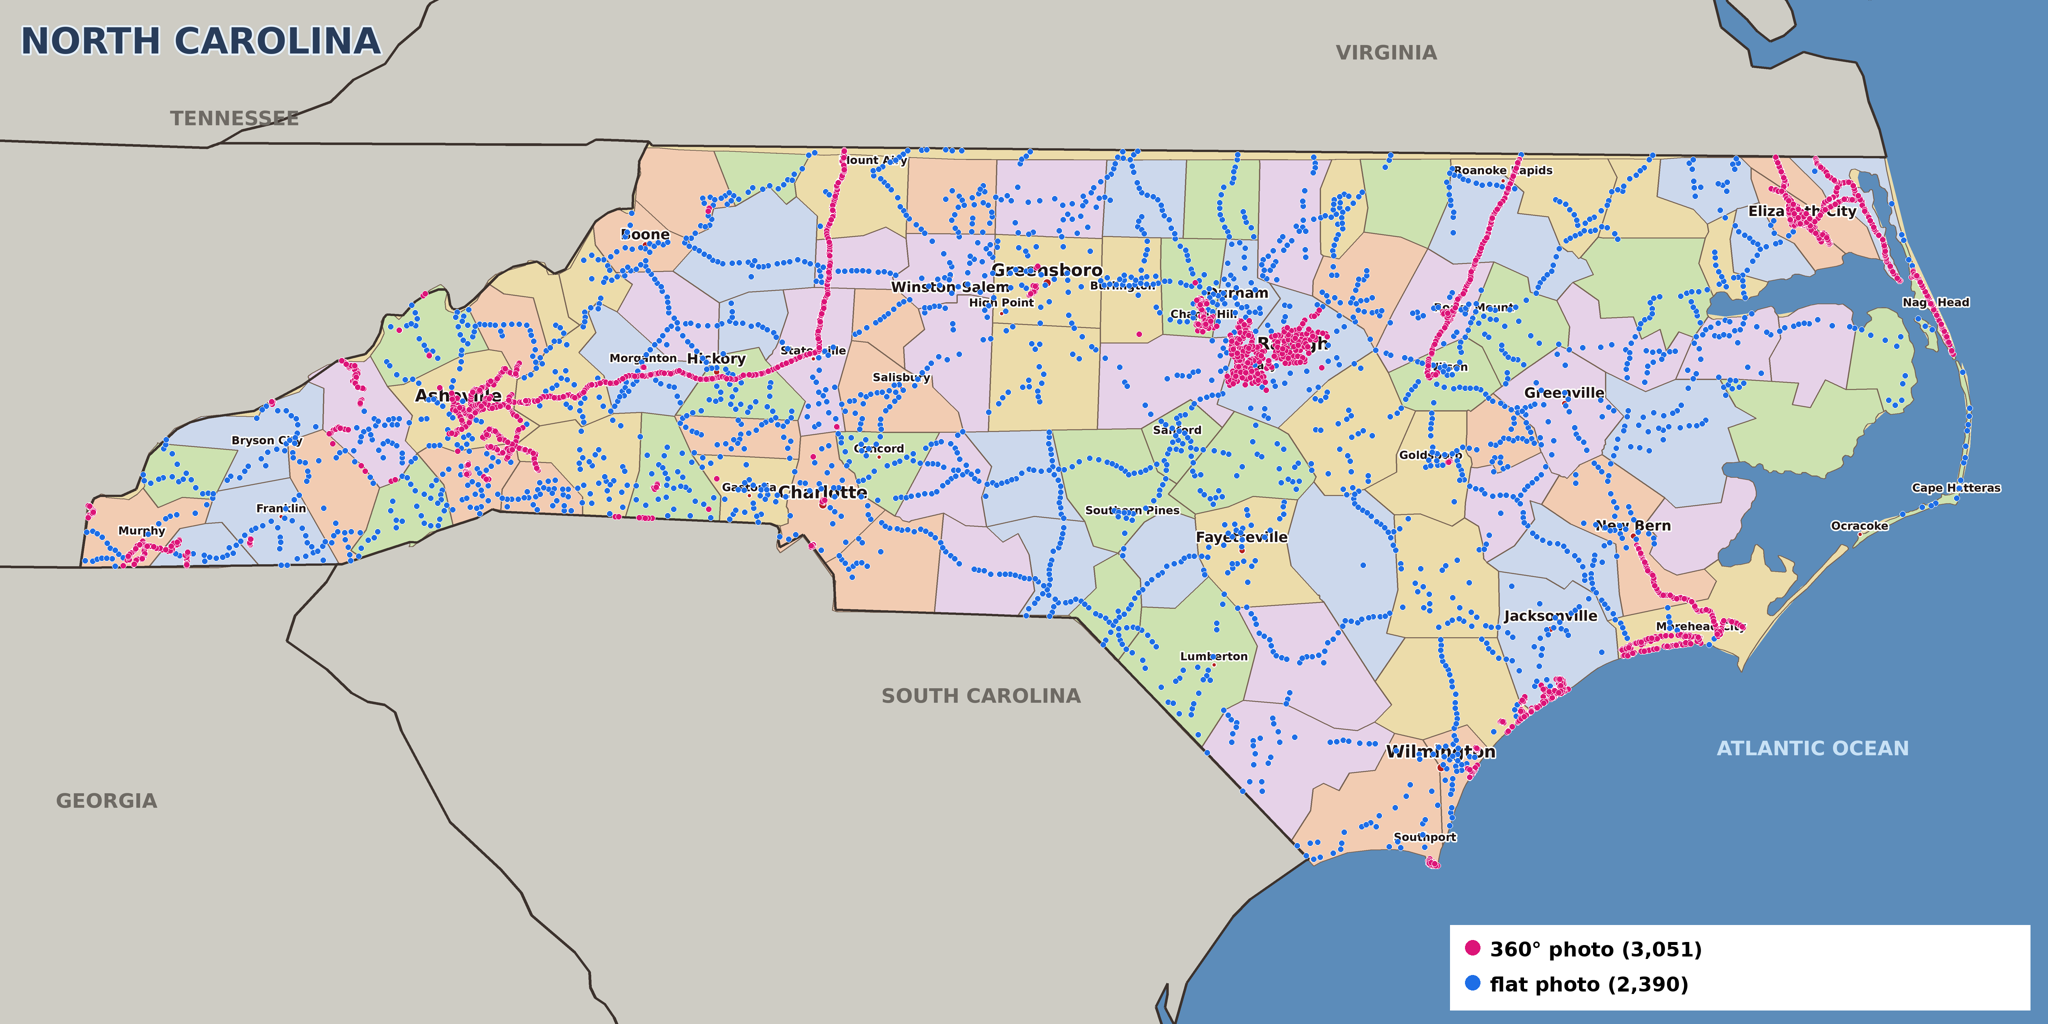
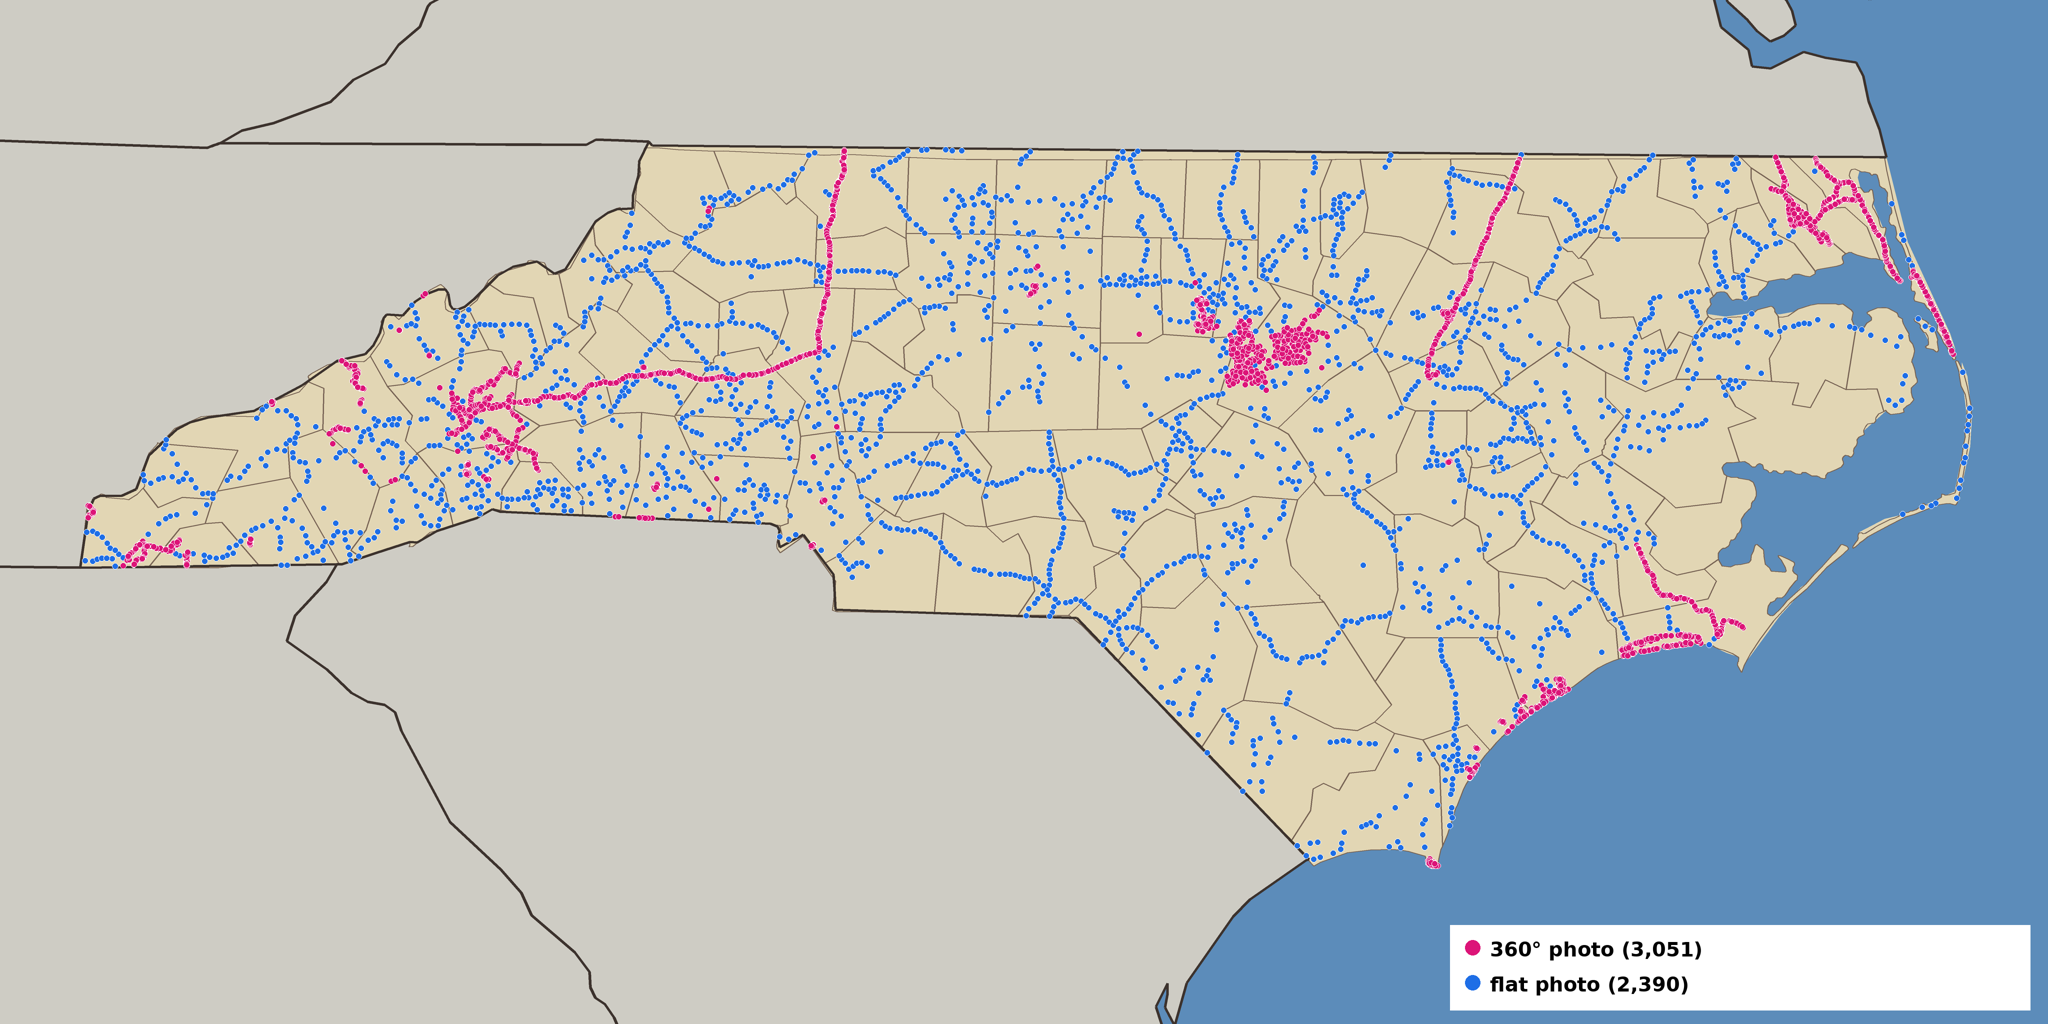
GeoQuest NC: bare map, county outlines only
Claude-Session: https://claude.ai/code/session_011TBG6x6c87uEmbv3kpaQXq

diff --git a/vrchat-geoquest/tools/make_nc_map.py b/vrchat-geoquest/tools/make_nc_map.py
@@ -31,6 +31,10 @@ def P(c):
 
 import sys
 NEIGHBORS = "--neighbor-towns" in sys.argv
+# Default: a bare map with nothing but county outlines (no names, towns or titles).
+# --labels brings back towns, state names and the title.
+LABELS = "--labels" in sys.argv
+PLAIN_FILL = (226, 214, 180)
 
 
 def main():
@@ -45,10 +49,10 @@ def main():
     counties = load_nc_counties()
     nc = [f for f in states if f["properties"]["name"] == "North Carolina"][0]
     for poly in polygons(nc):  # fills coastal slivers the county outlines miss
-        d.polygon([P(c) for c in poly[0]], fill=COUNTY[0])
+        d.polygon([P(c) for c in poly[0]], fill=COUNTY[0] if LABELS else PLAIN_FILL)
     for i, f in enumerate(sorted(counties, key=lambda f: f["properties"]["COUNTY"])):
         for poly in polygons(f):
-            d.polygon([P(c) for c in poly[0]], fill=COUNTY[(i * 3) % len(COUNTY)])
+            d.polygon([P(c) for c in poly[0]], fill=COUNTY[(i * 3) % len(COUNTY)] if LABELS else PLAIN_FILL)
     for f in counties:
         for poly in polygons(f):
             d.line([P(c) for c in poly[0]], fill=(120, 100, 85), width=2 * SS)
@@ -62,6 +66,9 @@ def main():
     placed = []
     def free(box):
         return all(box[2] < b[0] or box[0] > b[2] or box[3] < b[1] or box[1] > b[3] for b in placed)
+
+    if not LABELS:
+        return save(img)
 
     # neighbouring state names
     for name, lat, lon in [("VIRGINIA", 36.95, -78.2), ("SOUTH CAROLINA", 34.5, -80.1), ("TENNESSEE", 36.7, -83.6),
@@ -113,6 +120,10 @@ def main():
 
     d.text((40 * SS, 40 * SS), "NORTH CAROLINA", font=font(72 * SS), fill=(40, 60, 90), anchor="la",
            stroke_width=4 * SS, stroke_fill=(230, 240, 250))
+    save(img)
+
+
+def save(img):
     img = img.resize((W, H), Image.LANCZOS)
     os.makedirs(os.path.dirname(OUT), exist_ok=True)
     img.save(OUT, optimize=True)

diff --git a/vrchat-geoquest/README.md b/vrchat-geoquest/README.md
@@ -18,7 +18,7 @@ The **Photo type** button in the lobby cycles **Mixed**, **360° only** and **Fl
 `coverage.png` shows where the 360° places are. (For trick rounds from just over the border, harvest
 with `--outside-fraction 0.25` and rebuild the map with `python make_nc_map.py --neighbor-towns`.)
 
-**The map** shows all 100 NC county outlines (no county names, so you have to know your counties) with about 40 towns marked, and it zooms to 32×. Scoring is scaled to the state: `5000 × e^(−km / 90)`. That's
+**The map** is bare: just the 100 NC county outlines. There are no names, towns or labels, so you have to know your state (`python make_nc_map.py --labels` brings the towns and labels back), and it zooms to 32×. Scoring is scaled to the state: `5000 × e^(−km / 90)`. That's
 roughly 4,500 points at 10 km, 2,900 at 50 km and 500 at 200 km. The reveal tells you the
 county and the nearest town, for example "14 km from Raleigh, Wake County, NC". Photos are
 **streamed one at a time** with VRChat's Image Loading. The upload stays a few MB and
